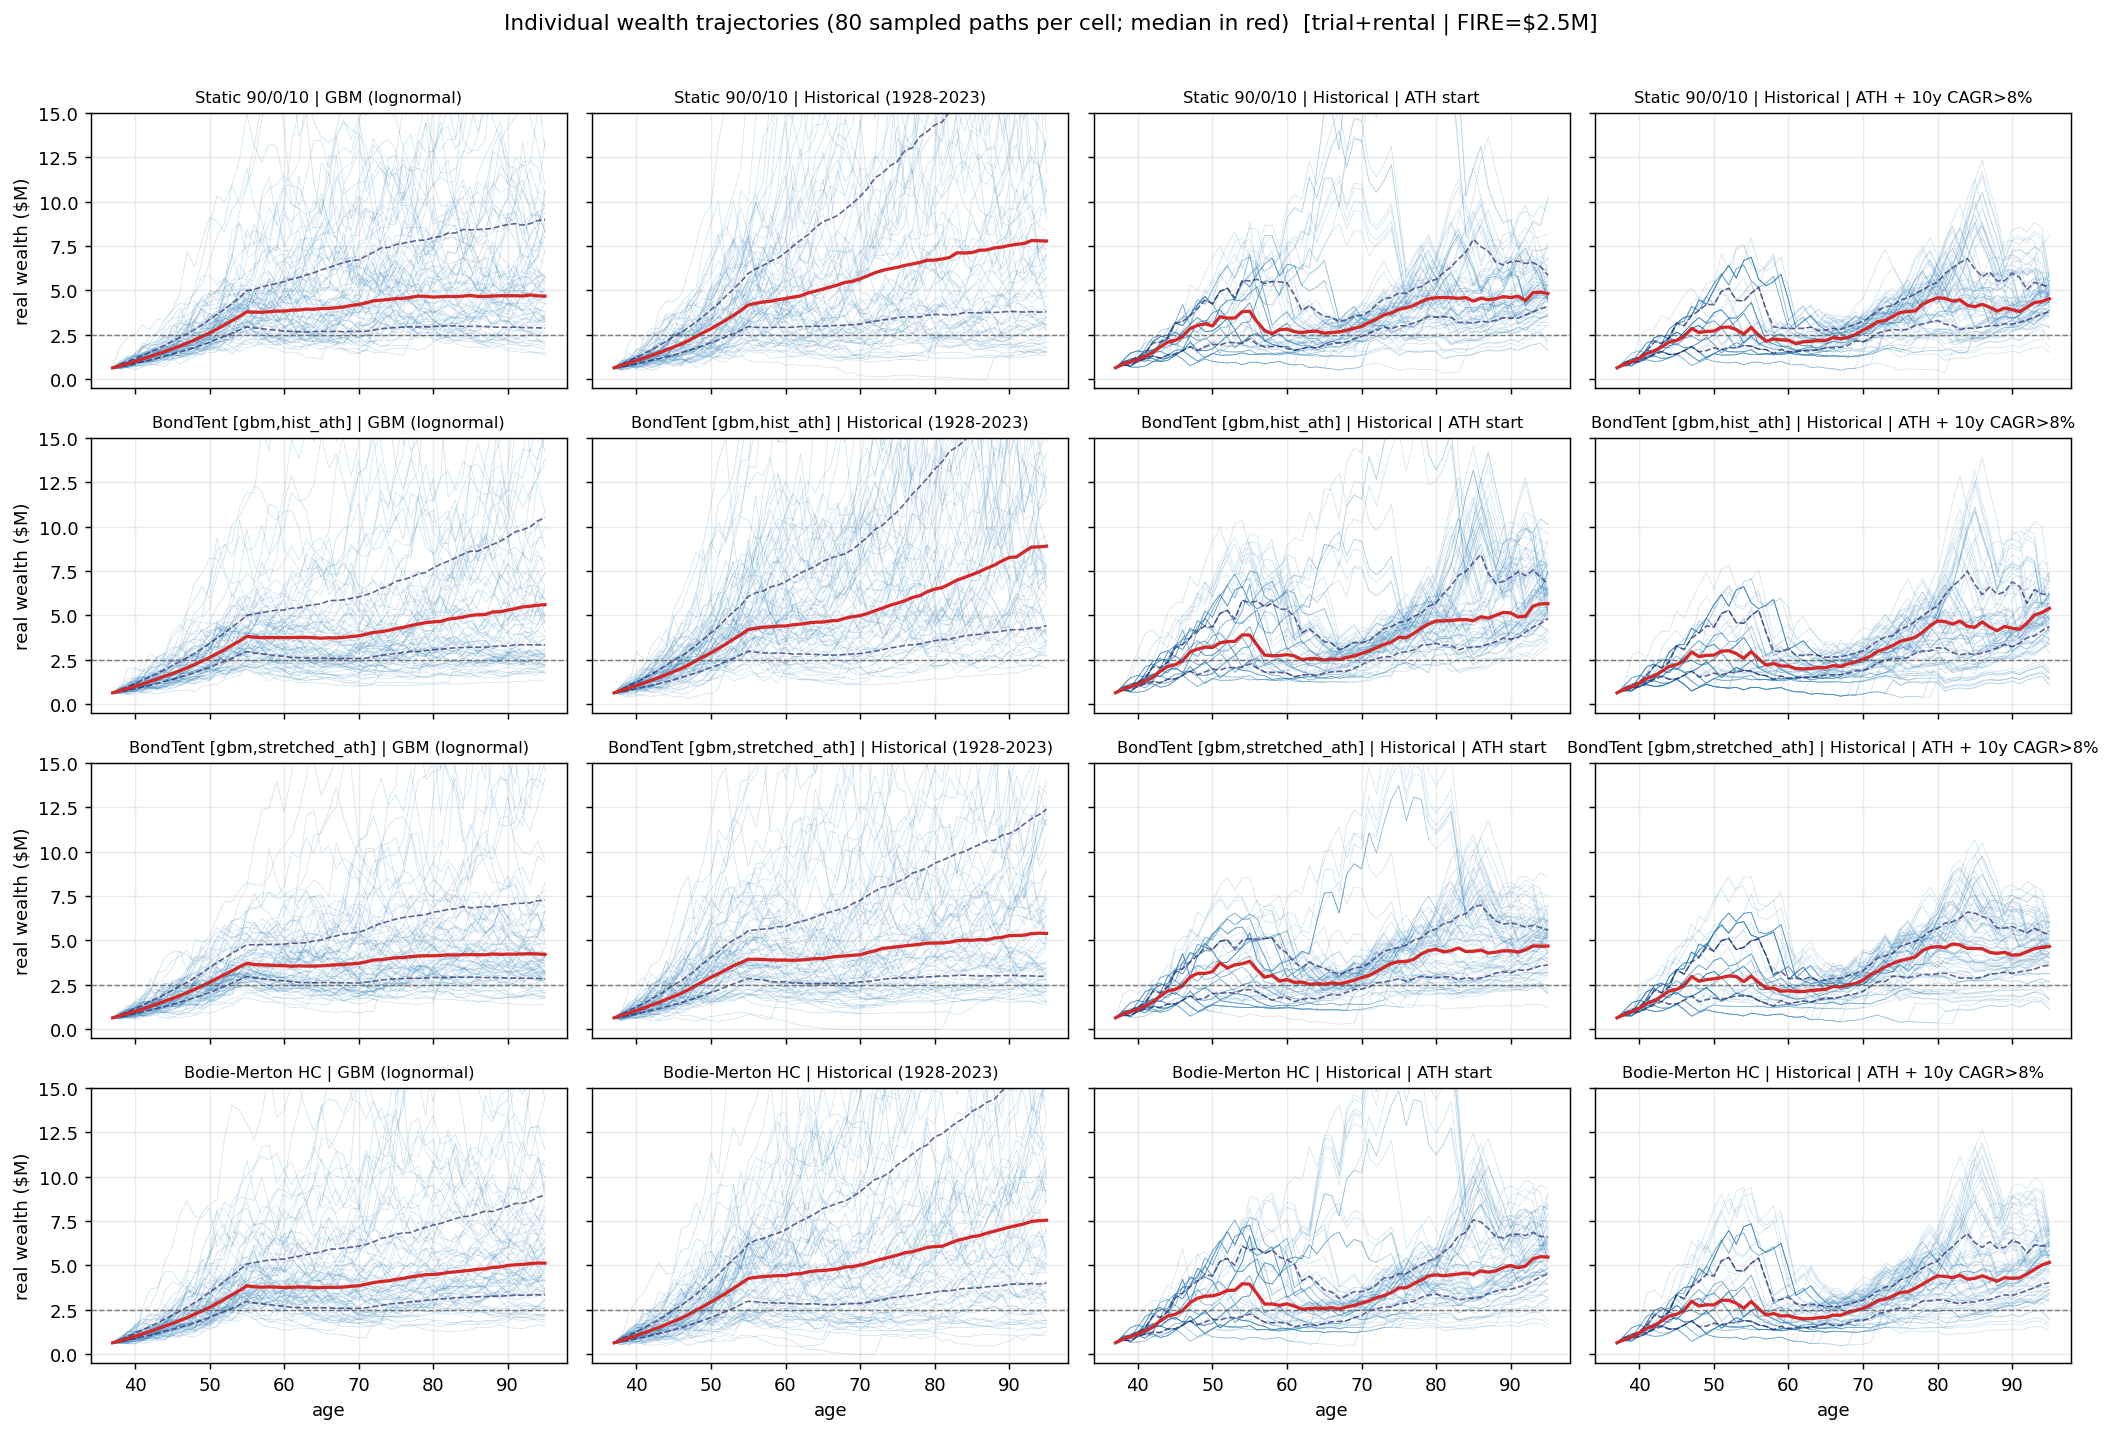
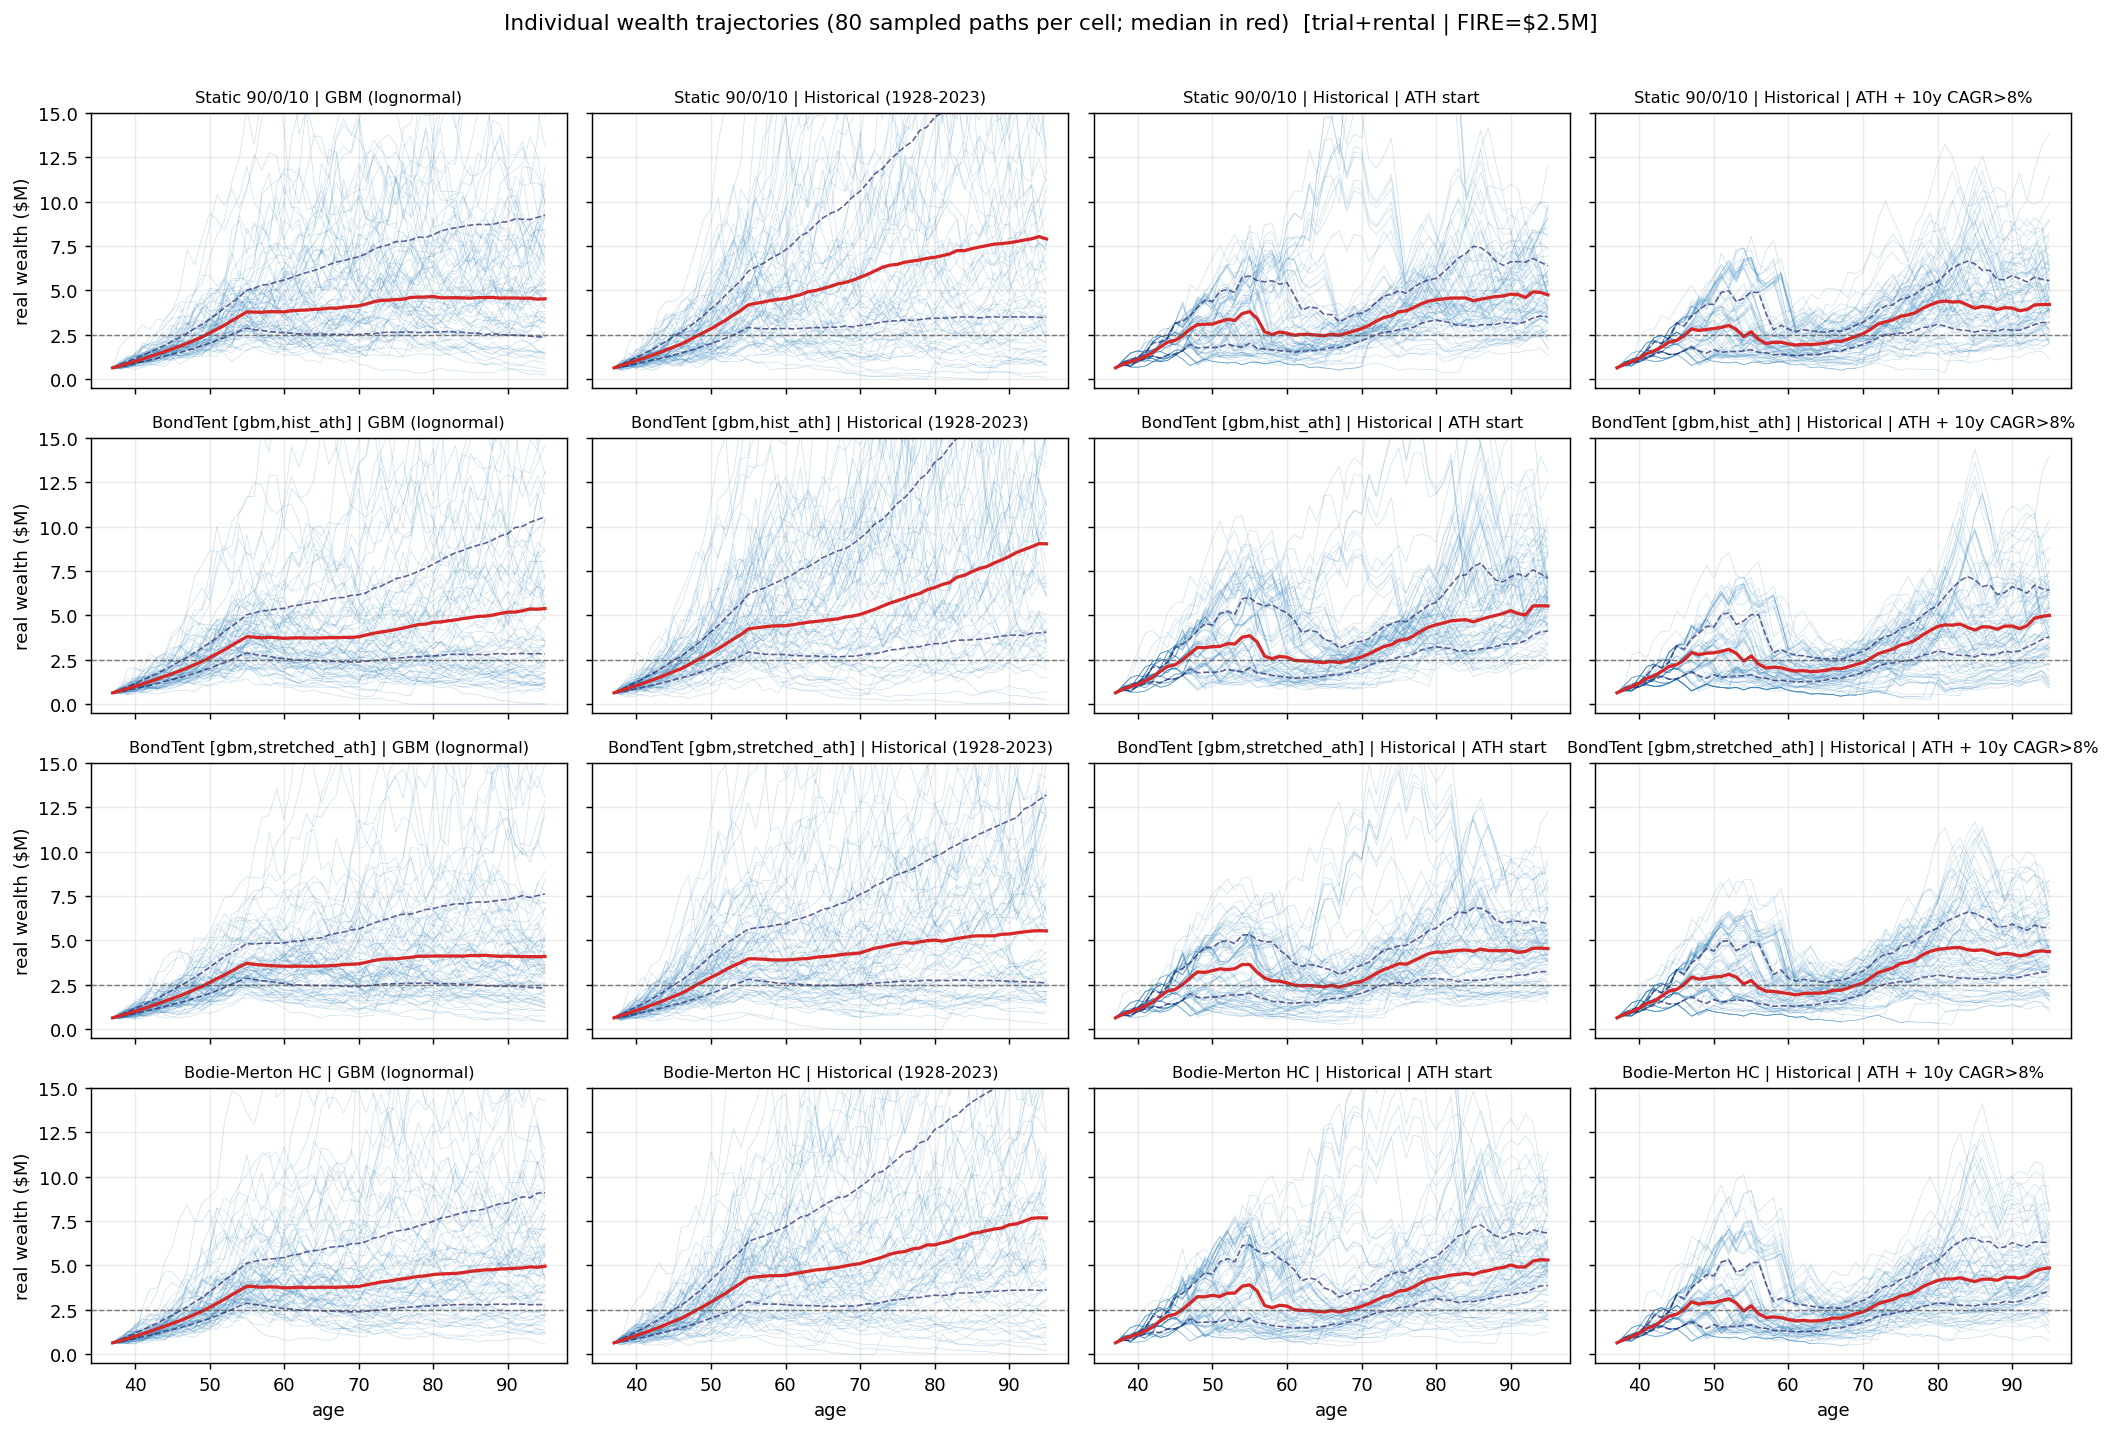
Stochastic real-estate appreciation correlated with stock+bond returns
Replaces the deterministic `appreciation_real` scalar with three new
RentalProperty fields:
  appreciation_real_mean  (default 0.005)
  appreciation_real_vol   (default 0.10)
  correlation_with_stock  (default 0.30)
  correlation_with_bond   (default 0.10)
plus `rent_shock_vol` (default 0.05) for multiplicative annual
vacancy/rent shocks on cap_rate.

Sampling: each year's property log-return is drawn as
  log_p ~ N(mu_p_log, sd_p_log^2)
where the standard normal is built from the path-year's standardised
stock + bond log returns plus an independent component:
  z_p = rho_s * z_s + rho_b * z_b + sqrt(1 - ...) * z_indep
with feasibility shrinkage if the rho's would imply negative variance.
This works for both GBM and the historical bootstrap (the realised
log returns are folded in via standardisation against GBM-implied
moments).

The old YAML field `appreciation_real` is still accepted (mapped to
`appreciation_real_mean`).

Effect on the trial_rental scenario: ruin rises from ~0.0%
(deterministic) to ~0.6-1.2% under historical (P=5000) — the joint
crash mode where property value, stock, and bond all fall together
now shows up in the tail and the HELOC backstop is partially neutered.

diff --git a/retirement-simulator/retire/rental.py b/retirement-simulator/retire/rental.py
@@ -25,8 +25,66 @@ from __future__ import annotations
 
 import numpy as np
 
-from .config import RentalProperty
+from .accounts import Asset
+from .config import MarketConfig, RentalProperty
 from .vstate import VState
+
+
+def sample_rental_paths(R: np.ndarray, market: MarketConfig,
+                         rp: RentalProperty,
+                         seed: int | None = None
+                         ) -> tuple[np.ndarray, np.ndarray]:
+    """Sample (P, H) annual real property returns + (P, H) rent shocks.
+
+    Property log-return is correlated with stock and bond log returns:
+      z_stock, z_bond = standardized log-returns (using GBM-implied
+                        moments — works for both GBM and historical
+                        bootstrap, where realised log returns are folded
+                        in directly)
+      log_property = mu_p_log + sd_p_log * (rho_s * z_s + rho_b * z_b
+                                              + sqrt(...) * z_indep)
+    Variance of the convex combination is normalised to 1 using the
+    stock-bond correlation (`rho_sb`) from MarketConfig.
+
+    Rent shock is independent N(0, rent_shock_vol) per (path, year).
+    """
+    P, H, _ = R.shape
+    eps = 1e-9
+    rng = np.random.default_rng(seed)
+    log_s = np.log(np.maximum(eps, 1.0 + R[:, :, 0]))
+    log_b = np.log(np.maximum(eps, 1.0 + R[:, :, 1]))
+    # GBM-implied log moments for standardisation
+    from .returns import _arith_to_log
+    mu_s_log, sd_s_log = _arith_to_log(market.stocks.real_return,
+                                         market.stocks.vol)
+    mu_b_log, sd_b_log = _arith_to_log(market.bonds.real_return,
+                                         market.bonds.vol)
+    sd_s_log = max(eps, sd_s_log)
+    sd_b_log = max(eps, sd_b_log)
+    z_s = (log_s - mu_s_log) / sd_s_log
+    z_b = (log_b - mu_b_log) / sd_b_log
+    rho_s = float(rp.correlation_with_stock)
+    rho_b = float(rp.correlation_with_bond)
+    rho_sb = float(market.correlation_stock_bond)
+    cross = 2.0 * rho_s * rho_b * rho_sb
+    var_indep = 1.0 - rho_s ** 2 - rho_b ** 2 - cross
+    if var_indep < 1e-6:
+        # Shrink toward feasibility while preserving sign + ratio
+        denom = (rho_s ** 2 + rho_b ** 2 + abs(cross)) or 1.0
+        scale = float(np.sqrt(max(0.0, (1.0 - 1e-3) / denom)))
+        rho_s *= scale
+        rho_b *= scale
+        cross = 2.0 * rho_s * rho_b * rho_sb
+        var_indep = max(1e-6, 1.0 - rho_s ** 2 - rho_b ** 2 - cross)
+    z_indep = rng.standard_normal((P, H))
+    z_p = rho_s * z_s + rho_b * z_b + np.sqrt(var_indep) * z_indep
+    mu_p_log, sd_p_log = _arith_to_log(rp.appreciation_real_mean,
+                                          max(eps, rp.appreciation_real_vol))
+    log_p = mu_p_log + sd_p_log * z_p
+    arith_p = np.exp(log_p) - 1.0
+
+    rent_shocks = rng.normal(0.0, max(0.0, rp.rent_shock_vol), size=(P, H))
+    return arith_p, rent_shocks
 
 
 def annuity_payment_nominal(loan_n: np.ndarray, rate: float,
@@ -87,10 +145,17 @@ def execute_purchase(s: VState, rp: RentalProperty,
     return dp_real
 
 
-def step_rental_year(s: VState, rp: RentalProperty
+def step_rental_year(s: VState, rp: RentalProperty,
+                     property_return_real: np.ndarray | None = None,
+                     rent_shock: np.ndarray | None = None,
                      ) -> tuple[np.ndarray, np.ndarray, np.ndarray]:
     """Advance rental property by one year, in-place mutation of mortgage
     + heloc balances + property value.
+
+    `property_return_real` and `rent_shock` are (P,) arrays sampled by the
+    caller (see `sample_rental_paths` in this module). If omitted, the
+    property step is deterministic (return = appreciation_real_mean,
+    no rent shock).
 
     Returns three (P,) arrays in REAL dollars (zeros for non-owners):
       taxable_rental_income_real :  NOI - mortgage_interest (Schedule-E)
@@ -109,10 +174,14 @@ def step_rental_year(s: VState, rp: RentalProperty
     cum_infl = s.cumulative_inflation
     zeros = np.zeros(P)
 
-    # Property appreciation (real)
+    # Property appreciation (real). Draw from sampled returns if provided.
+    if property_return_real is None:
+        ret_real = np.full(P, rp.appreciation_real_mean)
+    else:
+        ret_real = property_return_real
     s.rental_value_real = np.where(
         owned,
-        s.rental_value_real * (1.0 + rp.appreciation_real),
+        s.rental_value_real * (1.0 + ret_real),
         s.rental_value_real,
     )
 
@@ -143,9 +212,13 @@ def step_rental_year(s: VState, rp: RentalProperty
     interest_real = interest_n / cum_infl
     payment_real = pay_n / cum_infl
     heloc_int_real = heloc_int_n / cum_infl
+    if rent_shock is None:
+        cap_eff = rp.cap_rate
+    else:
+        cap_eff = rp.cap_rate * (1.0 + rent_shock)
     noi_real = np.where(
         owned,
-        (rp.cap_rate - rp.expense_ratio) * s.rental_value_real,
+        (cap_eff - rp.expense_ratio) * s.rental_value_real,
         zeros,
     )
     net_cash_flow_real = noi_real - payment_real - heloc_int_real

diff --git a/retirement-simulator/retire/config.py b/retirement-simulator/retire/config.py
@@ -316,8 +316,12 @@ class RentalProperty:
     """Rental property modeled as a separate asset on the balance sheet.
 
     Mechanics (per path, per year, after `trigger` fires):
-      property_value_real       *= (1 + appreciation_real)
-      noi_real                   = (cap_rate - expense_ratio) * property_value_real
+      property_return            ~ correlated lognormal w/ stock & bond
+                                   log-returns this year (rho_s, rho_b)
+      property_value_real       *= (1 + property_return)
+      rent_shock                ~ N(0, rent_shock_vol)   per year
+      noi_real                   = (cap_rate * (1 + rent_shock)
+                                    - expense_ratio) * property_value_real
       mortgage_payment_nominal   = locked annuity payment (fixed at purchase)
       mortgage_interest_t        = balance_t * rate_n
       taxable_rental_income      = noi_real - mortgage_interest_real
@@ -344,7 +348,13 @@ class RentalProperty:
     # Operating economics (fractions of property_value_real)
     cap_rate: float = 0.05
     expense_ratio: float = 0.02   # maint + insurance + property tax + vacancy
-    appreciation_real: float = 0.005   # excess of CPI
+    rent_shock_vol: float = 0.05  # annual stdev of multiplicative rent shock
+    # Property appreciation (excess of CPI), stochastic, correlated with stock
+    # and bond log-returns.
+    appreciation_real_mean: float = 0.005   # excess of CPI
+    appreciation_real_vol: float = 0.10     # annual stdev (real)
+    correlation_with_stock: float = 0.30    # contemporaneous log-return corr
+    correlation_with_bond: float = 0.10     # ditto
     # Tax sourcing
     location_state: str = "CA"
     # Borrow-against-equity backstop
@@ -554,6 +564,10 @@ def load_scenario(path: str | Path) -> Scenario:
     rp_raw = raw.get("rental_property")
     if rp_raw is not None:
         tr = rp_raw.get("trigger", {})
+        # Backward-compatibility: accept the old `appreciation_real` scalar
+        # as the new `appreciation_real_mean` (deterministic if no _vol set).
+        appr_mean = float(rp_raw.get("appreciation_real_mean",
+                                       rp_raw.get("appreciation_real", 0.005)))
         rental = RentalProperty(
             price_real=float(rp_raw["price_real"]),
             downpayment_frac=float(rp_raw.get("downpayment_frac", 0.25)),
@@ -561,7 +575,11 @@ def load_scenario(path: str | Path) -> Scenario:
             mortgage_nominal_rate=float(rp_raw.get("mortgage_nominal_rate", 0.07)),
             cap_rate=float(rp_raw.get("cap_rate", 0.05)),
             expense_ratio=float(rp_raw.get("expense_ratio", 0.02)),
-            appreciation_real=float(rp_raw.get("appreciation_real", 0.005)),
+            rent_shock_vol=float(rp_raw.get("rent_shock_vol", 0.05)),
+            appreciation_real_mean=appr_mean,
+            appreciation_real_vol=float(rp_raw.get("appreciation_real_vol", 0.10)),
+            correlation_with_stock=float(rp_raw.get("correlation_with_stock", 0.30)),
+            correlation_with_bond=float(rp_raw.get("correlation_with_bond", 0.10)),
             location_state=str(rp_raw.get("location_state", "CA")),
             ltv_max=float(rp_raw.get("ltv_max", 0.80)),
             heloc_rate_nominal=float(rp_raw.get("heloc_rate_nominal", 0.08)),

diff --git a/retirement-simulator/retire/simulate.py b/retirement-simulator/retire/simulate.py
@@ -281,6 +281,16 @@ def simulate(scn: Scenario,
                   returns_by_asset[Asset.BOND],
                   returns_by_asset[Asset.CASH]], axis=-1)
 
+    # Pre-sample correlated property returns + rent shocks. Both are (P, H)
+    # arrays; they're indexed once per year inside the main loop below.
+    if scn.rental_property is not None:
+        property_returns_real, rent_shocks = _rental.sample_rental_paths(
+            R, scn.market, scn.rental_property,
+            seed=(seed or 0) + 7919)
+    else:
+        property_returns_real = None
+        rent_shocks = None
+
     starting_wages = scn.state_taxes.total_wages(scn.profile.start_date, 0)
     s = VState.from_portfolio(scn.initial_portfolio, P, horizon,
                               starting_nominal_income=starting_wages)
@@ -411,8 +421,14 @@ def simulate(scn: Scenario,
         # ---- rental property: annual operating step ----
         if scn.rental_property is not None and s.rental_owned.any():
             rp = scn.rental_property
+            pr_y = (property_returns_real[:, y]
+                    if property_returns_real is not None else None)
+            rs_y = (rent_shocks[:, y]
+                    if rent_shocks is not None else None)
             (rental_taxable_real, rental_net_cash_real,
-             _interest_real) = _rental.step_rental_year(s, rp)
+             _interest_real) = _rental.step_rental_year(s, rp,
+                                                          property_return_real=pr_y,
+                                                          rent_shock=rs_y)
             # Rental tax: Federal ordinary on rental_taxable_income; state
             # is sourced to the property's location_state regardless of
             # residency.
